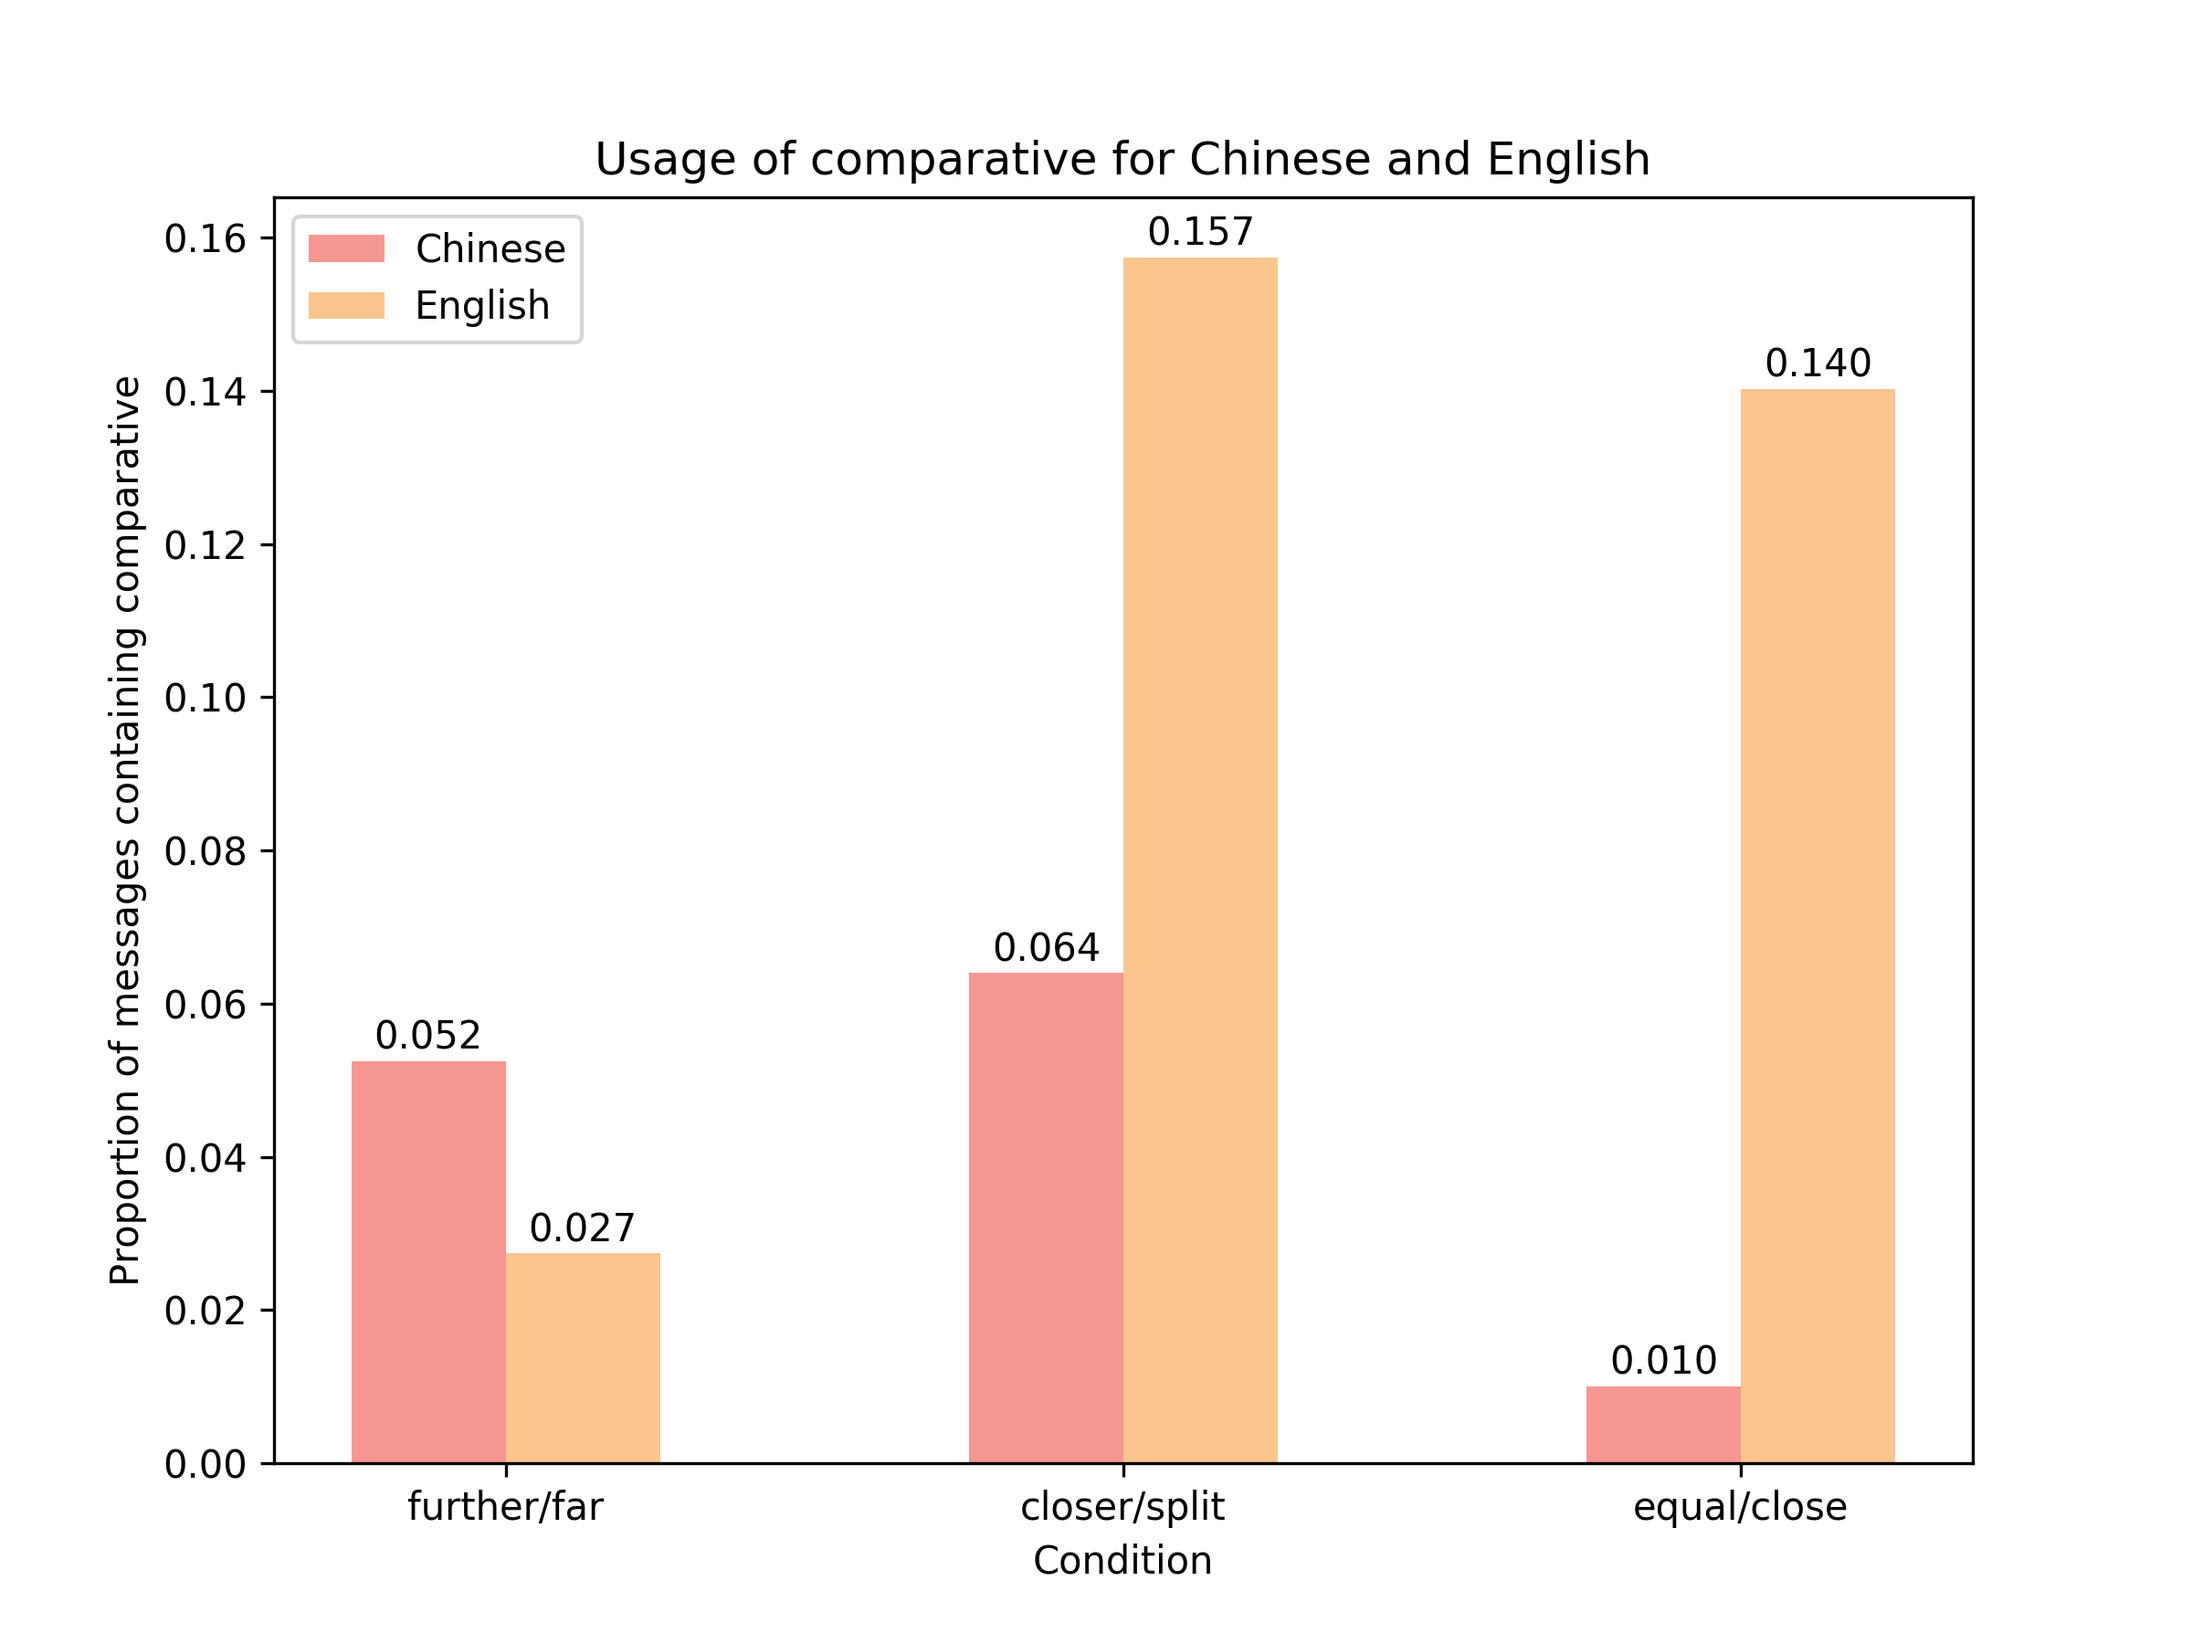
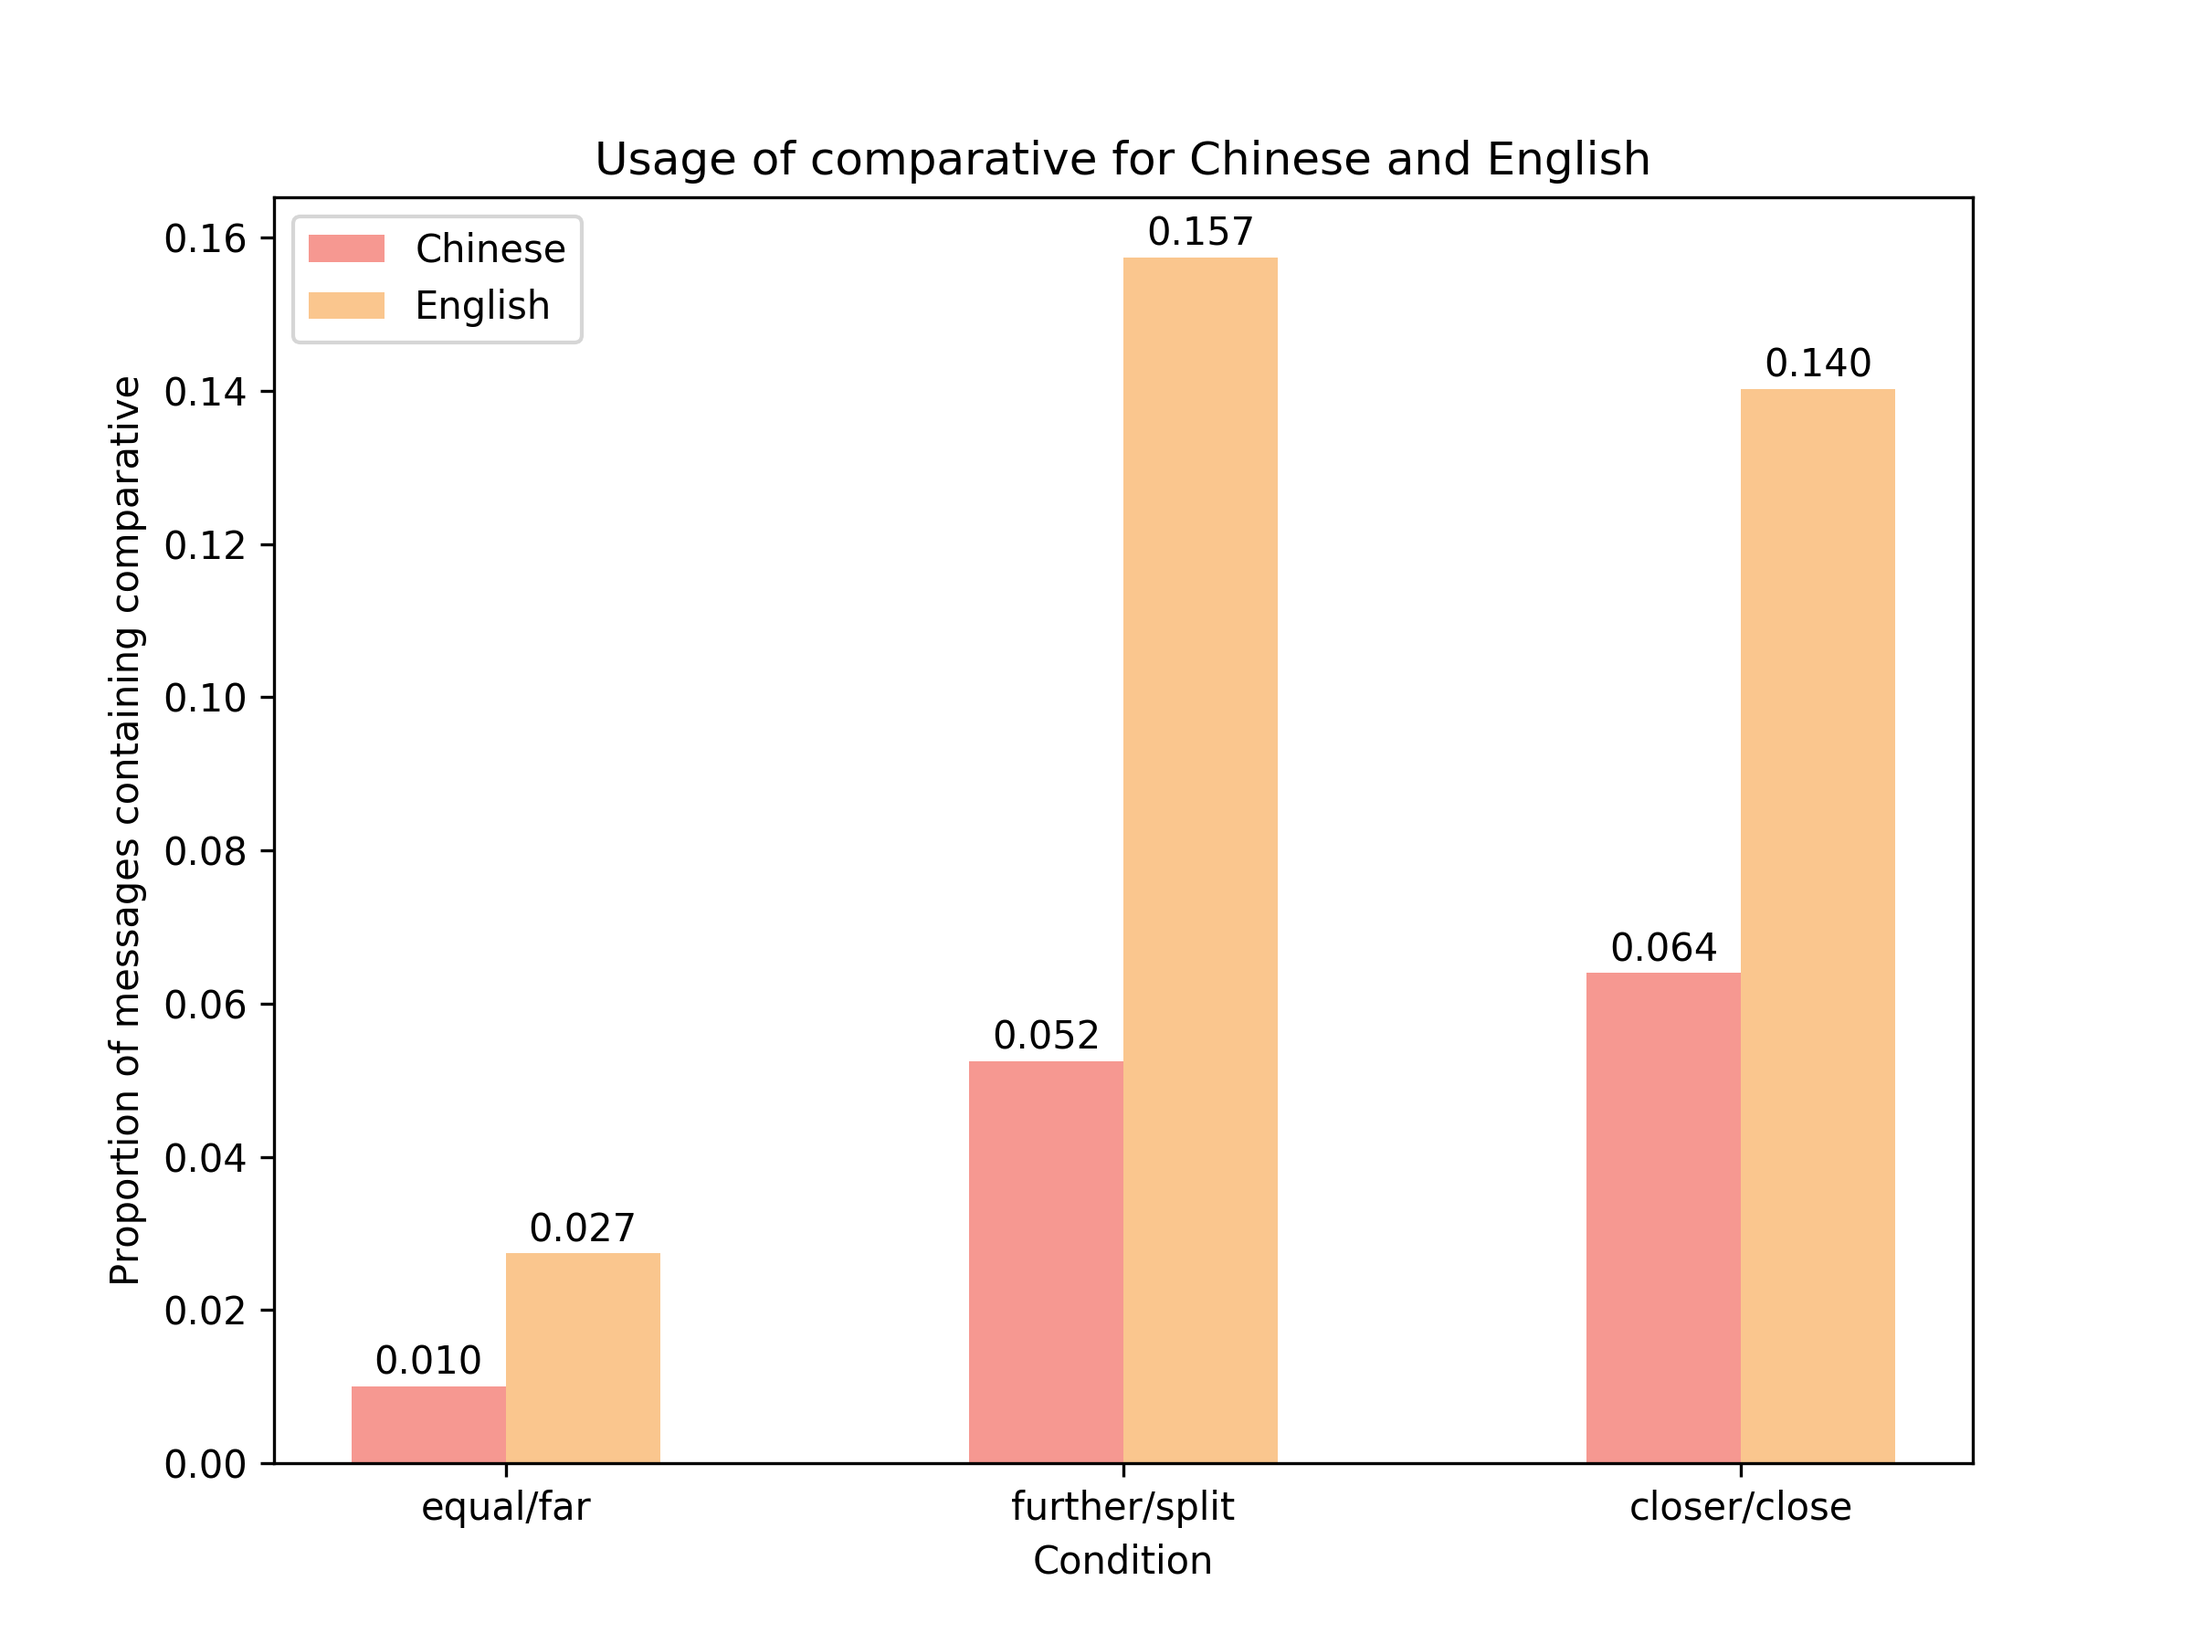
before pull

diff --git a/languageAnalysis/compare.py b/languageAnalysis/compare.py
@@ -1,5 +1,4 @@
 #coding:utf-8
-
 import plots
 import utils
 import numpy as np
@@ -8,7 +7,7 @@ import csv
 
 ZH_MSG_FILE = 'colorReferenceMessageChinese.csv'
 ZH_CLICK_FILE = 'colorReferenceClicksChinese.csv'
-ZH_CONDITIONS = ['further', 'closer', 'equal']
+ZH_CONDITIONS = ['equal', 'further', 'closer']
 EN_FILE = '../behavioralAnalysis/humanOutput/filteredCorpus.csv'
 EN_CONDITIONS = ['far', 'split', 'close']
 PUNCTUATION = ['~',',','.','?','!','。','，','？','！','”','(',')','…','=']
@@ -21,20 +20,15 @@ def msg_lengths(lang='english'):
     it counts the number of chars (after removing punctuation, whitespaces,
     and any messages containing English).
     '''
-    if lang == 'chinese':
-        msg_file = ZH_MSG_FILE
-        d = enchant.Dict('en_US')
-    else:
-        msg_file = EN_FILE
+    msg_file = ZH_MSG_FILE if lang == 'chinese' else EN_FILE
+    d = enchant.Dict('en_US')
     msg_lengths = []
     with open(msg_file, 'r') as f:
         for row in csv.DictReader(f):
             msg = row['contents']
-            # remove punctuation marks (primarily for chinese)
             for c in PUNCTUATION:
                 msg = msg.replace(c, '')
             if lang == 'chinese':
-                # get rid of all messages containing english and remove spaces
                 msg = '' if any([d.check(s) for s in msg.split()]) \
                         else msg.replace(' ', '')
                 msg_lengths.append(len(msg.decode('utf8')))
@@ -84,60 +78,93 @@ def usage(attribute='superlative', lang='english'):
     for row in click_rows:
         cond, gameid, roundNum = row['condition'], row['gameid'], row['roundNum']
         if lang == 'english':
-            counts[cond].append(int(utils.attribute_in_msg(row['contents'],
-                                attribute, lang)))
+            if attribute == 'specificity':
+                s = utils.specificity(row['contents'])
+                if s:
+                    counts[cond].append(s)
+            else:
+                counts[cond].append(int(utils.attribute_in_msg(row['contents'],
+                                    attribute, lang)))
         else:
             round_msgs = [x['contents'] for x in msg_rows
                                         if x['gameid'] == gameid
                                         and x['roundNum'] == roundNum]
-            counts[cond] += [int(utils.attribute_in_msg(msg, attribute, lang))
-                            for msg in round_msgs]
+            if attribute == 'specificity':
+                data = [utils.specificity(msg) for msg in round_msgs
+                                               if utils.specificity(msg)]
+            else:
+                data = [int(utils.attribute_in_msg(msg, attribute, lang))
+                        for msg in round_msgs]
+            counts[cond] += data
     return [np.mean(counts[cond]) for cond in cond_names] # ensures order
 
-def specificity(lang='english'):
-    '''
-    Returns the average specificity for messages exchanged on each of the
-    three conditions (far, split, close) for a given language (English or
-    Chinese). Uses WordNet.
-    '''
-    pass
-
-def compare(metric, attribute, verbose=True, plot=True):
-    if metric == 'length':
+def compare(attribute, verbose=True, plot=True):
+    if attribute == 'message' or attribute == 'dialogue':
         zh_lengths = lengths(attribute, 'chinese')
         en_lengths = lengths(attribute, 'english')
         ylabel = 'words per message' if attribute == 'message' \
                                      else 'messages sent per round'
         if verbose:
-            print 'Average %s lengths:' % attribute
-            print ' * ZH: ', np.mean(zh_lengths)
-            print ' * EN: ', np.mean(en_lengths)
+            utils.verbose_msg('Average %s lengths:' % attribute,
+                        np.mean(zh_lengths), np.mean(en_lengths))
         if plot:
             plots.boxplot([zh_lengths, en_lengths],
                     'plots/%s_lengths.png' % attribute,
                     xticks=['Chinese', 'English'], xlabel='Language',
                     ylabel='Number of %s' % ylabel,
                     title='Length of %s for Chinese and English' % attribute)
-    elif metric == 'usage':
-        zh_usage = usage(attribute, 'chinese')
+    else:
+        # zh_usage = usage(attribute, 'chinese')
+        zh_usage = None
         en_usage = usage(attribute, 'english')
         if verbose:
-            print 'Proportion of messages using %s:' % attribute
-            print ' * ZH: ', zh_usage
-            print ' * EN: ', en_usage
-        if plot:
-            plots.bargraph([list(zh_usage), list(en_usage)],
-                    'plots/%s_usage.png' % attribute,
-                    xticks=['further/far', 'closer/split', 'equal/close'],
-                    series_names=['Chinese', 'English'], xlabel='Condition',
-                    ylabel='Proportion of messages containing %s' % attribute,
-                    title='Usage of %s for Chinese and English' % attribute)
-    else:
-        raise NameError('Invalid metric: try \'length\' or \'usage\'.')
+            heading = None
+            if attribute == 'specificity':
+                heading = 'Average maximal specificity in all messages:'
+            else:
+                heading = 'Proportion of messages using %s:' % attribute
+            utils.verbose_msg(heading, zh_usage, en_usage)
+        # if plot:
+        #     plot_file, ylabel, title = None, None, None
+        #     if attribute == 'specificity':
+        #         plot_file = 'plots/specificity.png'
+        #         ylabel = 'Average maximal WordNet specificity'
+        #         title = 'WordNet specificity for Chinese and English'
+        #     else:
+        #         plot_file = 'plots/%s_usage.png' % attribute
+        #         ylabel = 'Proportion of messages containing %s' % attribute
+        #         title = 'Usage of %s for Chinese and English' % attribute
+        #     plots.bargraph([list(zh_usage), list(en_usage)], plot_file,
+        #             xticks=['equal/far', 'further/split', 'closer/close'],
+        #             series_names=['Chinese', 'English'], xlabel='Condition',
+        #             ylabel=ylabel, title=title)
 
 if __name__ == '__main__':
-    compare('length', 'message')
-    compare('length', 'dialogue')
-    compare('usage', 'superlative')
-    compare('usage', 'comparative')
-    compare('usage', 'negation')
+    # compare('message')
+    # compare('dialogue')
+    # compare('superlative')
+    # compare('comparative')
+    # compare('negation')
+    compare('specificity')
+
+    # zh_usage = [6.7184466019417473, 6.6880341880341883, 6.7615384615384615]
+    # [7.035610710190868, 7.0520575740282796, 7.0389788293897881]
+    #
+    # plot_file = 'plots/specificity.png'
+    # ylabel = 'Average specificity'
+    # title = 'WordNet specificity for Chinese and English'
+    # plots.bargraph([zh_usage, en_usage], plot_file,
+    #         xticks=['equal/far', 'further/split', 'closer/close'],
+    #         series_names=['Chinese', 'English'], xlabel='Condition',
+    #         ylabel=ylabel, title=title)
+
+    # print specificity('color')
+    # print specificity('red')
+    # print specificity('crimson')
+    # print specificity('the')
+    # print specificity('grass')
+    # print specificity('this color is a bright turquoise')
+    # print specificity('blue')
+    # print specificity('绿')
+    # print specificity('草')
+    # print specificity('接近草的颜色，可是没那么绿')

diff --git a/languageAnalysis/utils.py b/languageAnalysis/utils.py
@@ -1,5 +1,9 @@
 #coding:utf8
 import csv
+import numpy as np
+from nltk.corpus import wordnet as wn
+from nltk.tokenize import word_tokenize
+from nltk.stem import WordNetLemmatizer
 
 def dicts_from_file(file_path):
     '''
@@ -49,3 +53,70 @@ def attribute_in_msg(msg, attribute, lang):
             return '不' in msg or '没' in msg
     else:
         raise NameError('ATTRIBUTE: try \'superlative\', \'comparative\', or \'negation\'.')
+
+def flatten(l) :
+    return [item for sublist in l for item in sublist]
+
+def nounify(adj_word):
+    """ Transform an adjective to the closest noun: dead -> death """
+    adj_synsets = wn.synsets(adj_word, pos='a')
+    # Word not found
+    if not adj_synsets:
+        return []
+    # Get all adj lemmas of the word
+    adj_lemmas = [l for s in adj_synsets
+                  for l in s.lemmas()
+                  if (s.name().split('.')[1] == 'a' or
+                      s.name().split('.')[1] == 's')]
+    # Get related forms
+    derivationally_related_forms = [(l, l.derivationally_related_forms())
+                                    for l in adj_lemmas]
+    # filter only the nouns
+    related_noun_lemmas = [l for drf in derivationally_related_forms
+                           for l in drf[1]
+                           if l.synset().name().split('.')[1] == 'n']
+    synsets = [l.synset() for l in related_noun_lemmas]
+    return synsets
+
+def get_informativity(text):
+    wnl = WordNetLemmatizer()
+    try:
+        words = [wnl.lemmatize(word) for word in word_tokenize(text)]
+    except:
+        print(text)
+        raise
+    res = []
+    for word in words:
+        nounForms = wn.synsets(word, pos='n')
+        nounSynsets = nounForms if nounForms else nounify(word)
+        colorSynsets = [n for n in nounSynsets
+                        if 'color.n.01' in
+                        [s.name() for s in flatten(n.hypernym_paths())]]
+        res += [s.min_depth() for s in colorSynsets][:1] if colorSynsets else []
+    return np.max(res) if res else None
+
+def translate(target, msg):
+    '''
+    Translates a given string into the specified target language.
+    Uses Google Translate.
+    '''
+    from googletrans import Translator
+    translator = Translator()
+    return translator.translate(msg, dest=target).text
+
+def specificity(msg):
+    '''
+    Returns the maximal specificity for messages exchanged on each of the
+    three conditions (far, split, close). Uses English WordNet and
+    Google Translate.
+    '''
+    # en_msg = translate('en', msg)
+    en_msg = msg
+    informativities = [get_informativity(x) for x in en_msg.split()]
+    cleaned = filter(lambda x : x, informativities)
+    return max(cleaned) if cleaned else None
+
+def verbose_msg(heading, zh_data=[], en_data=[]):
+    print heading
+    print ' * ZH: ', zh_data
+    print ' * EN: ', en_data

diff --git a/learners.py b/learners.py
@@ -479,9 +479,9 @@ class ChineseLearner(Learner):
         self.subchars = ['纟', '氵', '水', '火', '灬',
                         '艹', '木', '土', '日', '米', '女']
         # dictionaries for representative values
-        self.hue_dict = {'红' : 0, '土' : 30, '黄' : 60, '绿' : 120,
+        self.hue_dict = {'红' : 0, '橙' : 30, '黄' : 60, '绿' : 120,
                         '海' : 180, '蓝' : 240, '紫' : 270, '粉' : 370}
-        self.sat_dict = {'灰' : 25, '淡' : 50, '亮' : 100}
+        self.sat_dict = {'土' : 0, '灰' : 25, '淡' : 50, '亮' : 100}
         self.val_dict = {'墨' : 0, '深' : 25, '暗' : 25, '肝' : 25,
                         '淡' : 75, '浅' : 75}
         # epsilon - the interval around the representative values
@@ -576,6 +576,7 @@ class ChineseLearner(Learner):
                 self.negate(inp, row)
                 # check for subchars and relationship with hue
                 # self.subchar_feats(inp, H, row)
+        # TODO: feature names
         return X
 
     def top_words(self, instances, num_top_words):
@@ -608,6 +609,9 @@ class ChineseLearner(Learner):
         # learn the parameters for the model
         print "training..."
         self.model.fit(self.X_train, training_targets)
+
+        weights = self.model.coef_
+
 
     def predict_and_score(self, eval_instances):
         num_instances = len(eval_instances)
